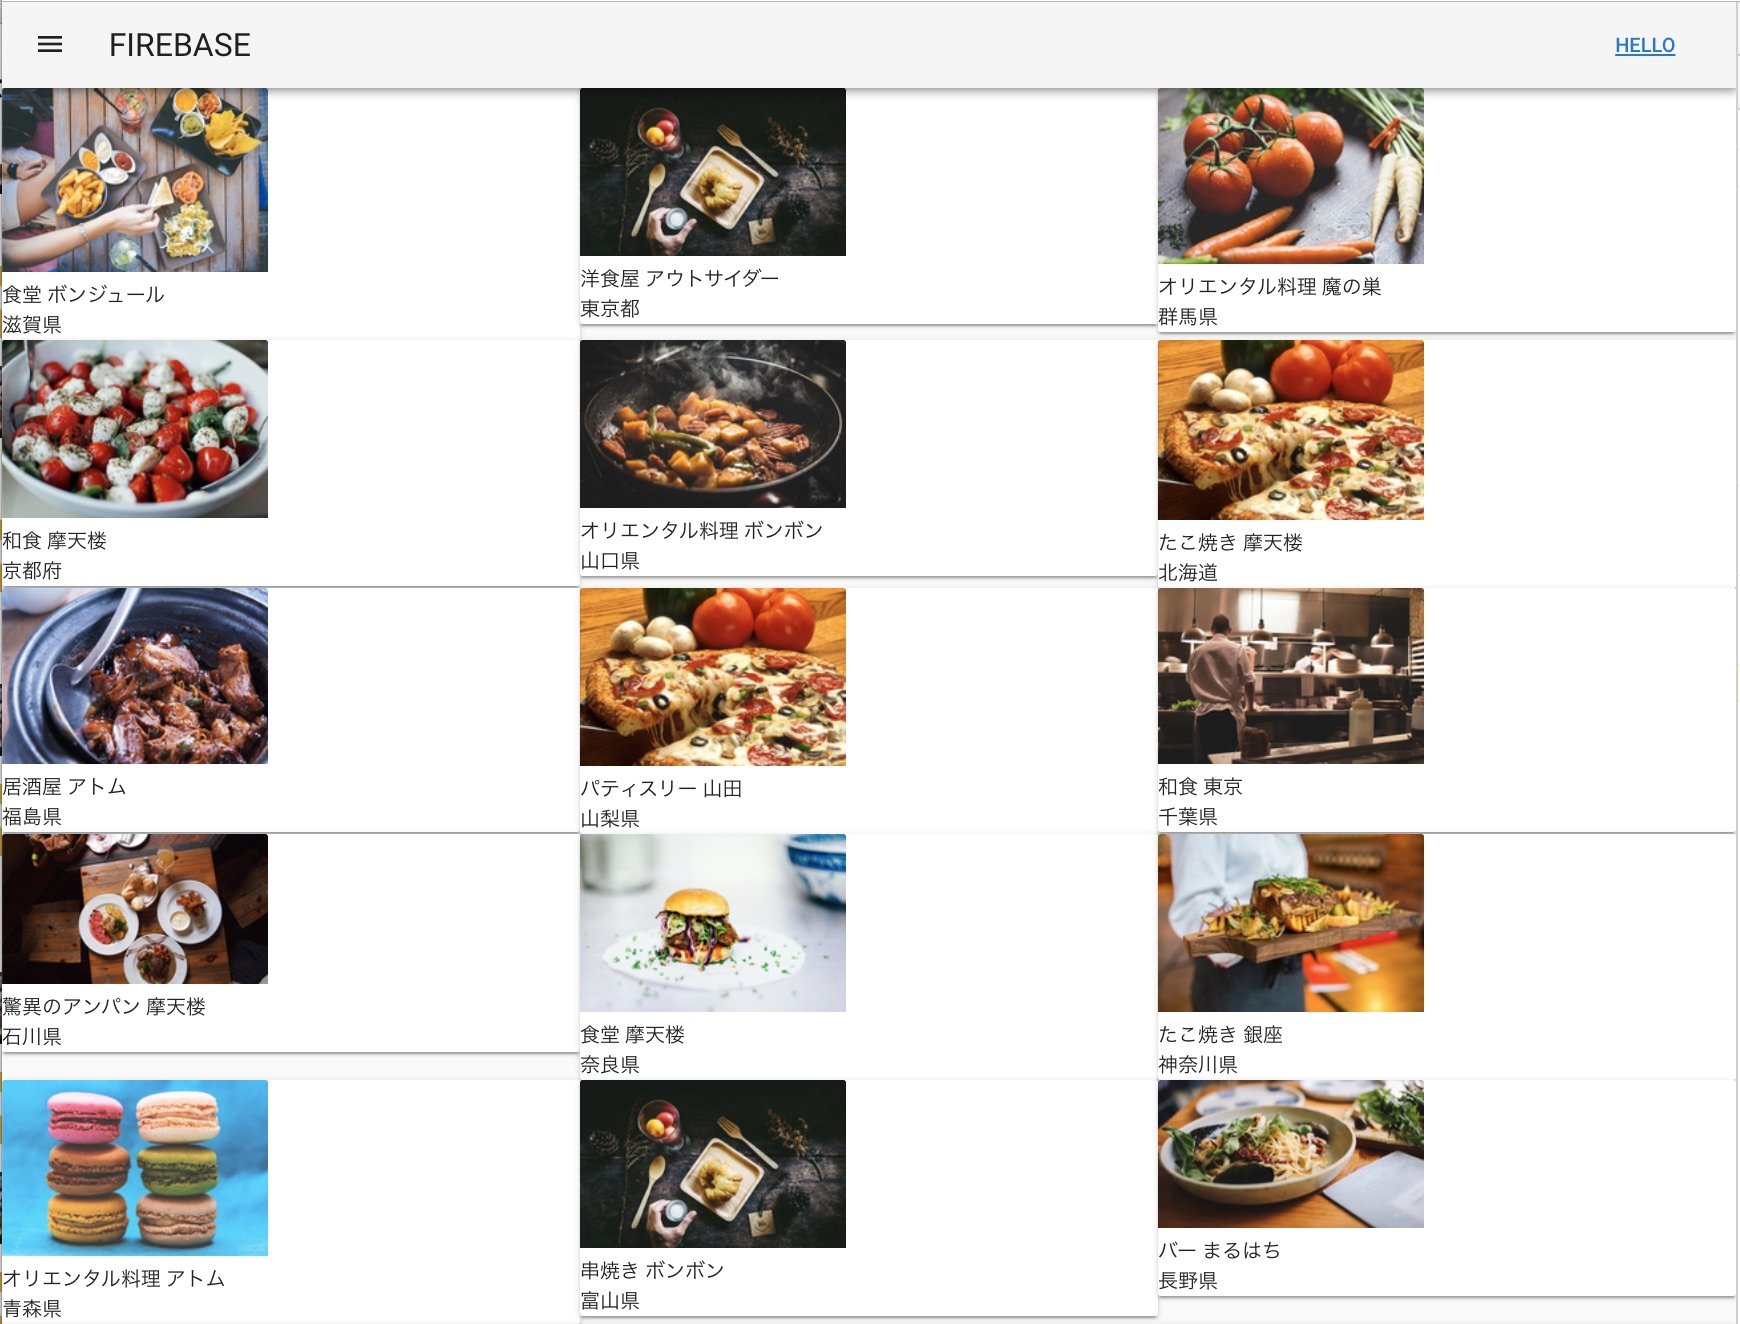
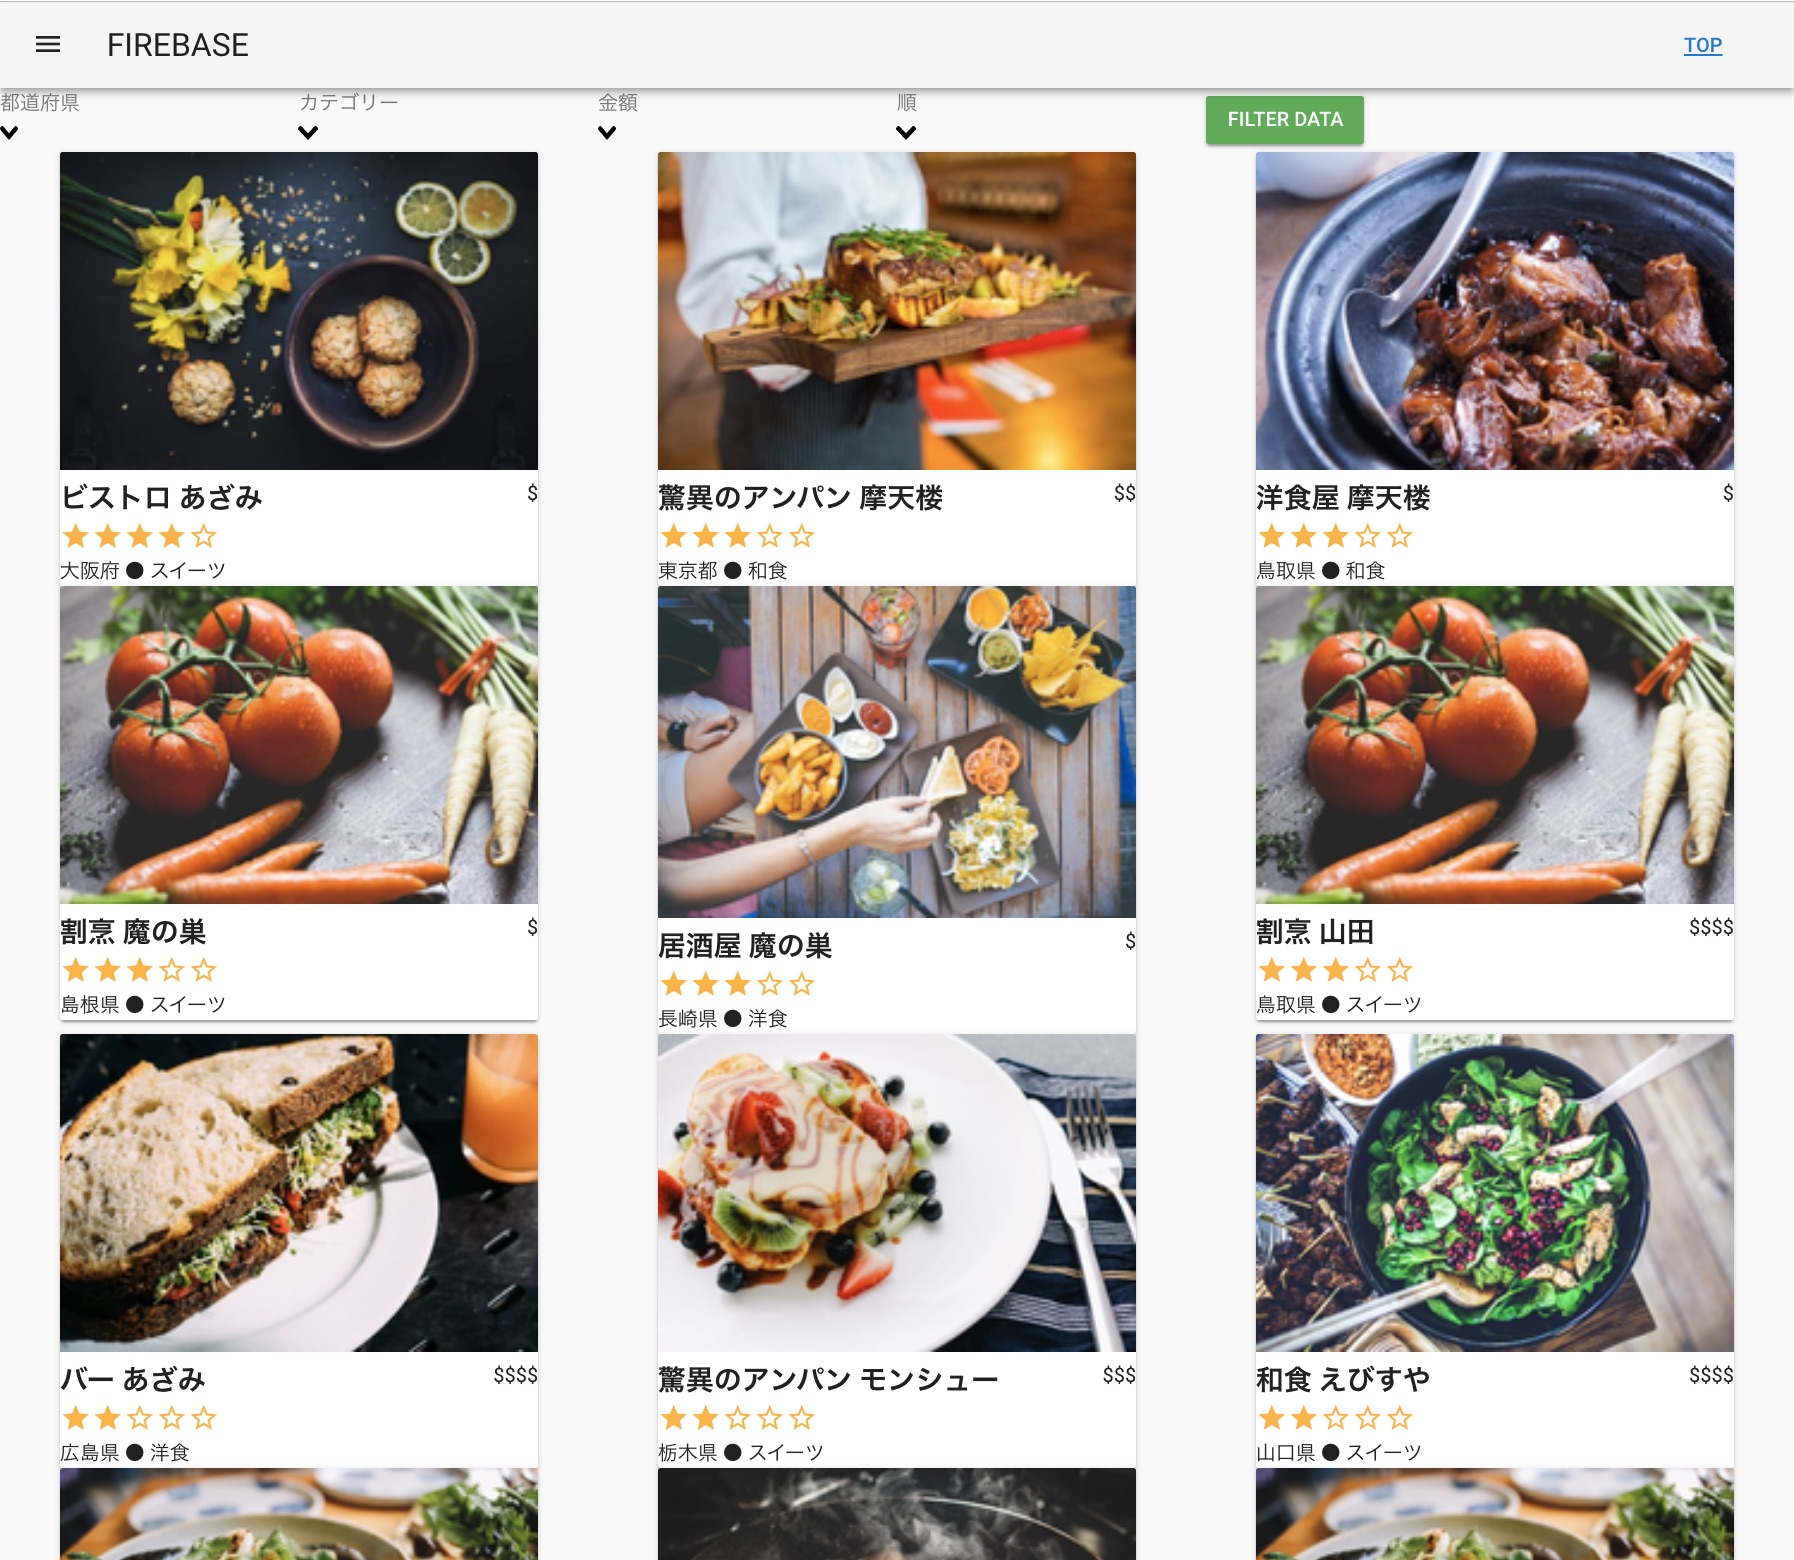
update top design

diff --git a/src/components/Top.vue b/src/components/Top.vue
@@ -33,11 +33,15 @@
     </v-flex>
     <v-flex xs4 />
   </template>
-  <v-flex xs4 v-for="restaurant in restaurants" :key="restaurant.id">
-    <v-card @click="link(restaurant.id)">
-      <img :src="restaurant.photo" /><br/>
-      {{restaurant.name}}<br/>
+  <v-flex xs4 v-for="restaurant in restaurants" :key="restaurant.id" align-content-center=true>
+    <v-card @click="link(restaurant.id)" max-width="80%" :style="{'margin': 'auto'}">
+      <img :src="restaurant.photo" :style="{ 'width': '100%'}"/><br/>
+      <span v-for="price in getPrice(restaurant.price)" :style="{ 'position': 'relative', 'float': 'right'}">{{price.value}}</span>
+      <h2>{{restaurant.name}}</h2>
+      <v-icon v-for="star in getStar(restaurant.avgRating)" v-bind:key="star.id" :style="{'color': '#feb22c'}">{{star.value}}</v-icon><br/>
       {{restaurant.city}}
+      ●
+      {{restaurant.category}}
     </v-card>
   </v-flex>
 </v-layout>
@@ -72,6 +76,24 @@ export default {
   methods: {
     importData: function() {
       FriendlyEatsMock.addMockRestaurants();
+    },
+    getPrice: function(price) {
+      const ret = [];
+      for (let r = 0; r < price; r += 1) {
+        ret.push({id: r, value: "$"});
+      }
+      return ret;
+    },
+    getStar: function(rating) {
+      const ret = [];
+      for (let r = 0; r < 5; r += 1) {
+        if (r < Math.floor(rating)) {
+          ret.push({id: r, value: "star"});
+        } else {
+          ret.push({id: r, value: "star_border"});
+        }
+      }
+      return ret;
     },
     filterData: function() {
       const filters = {
